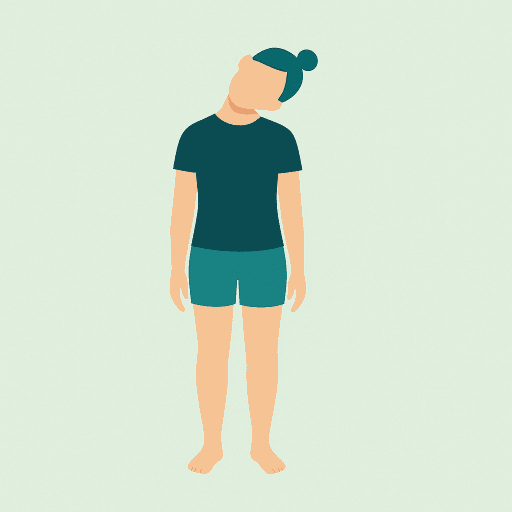
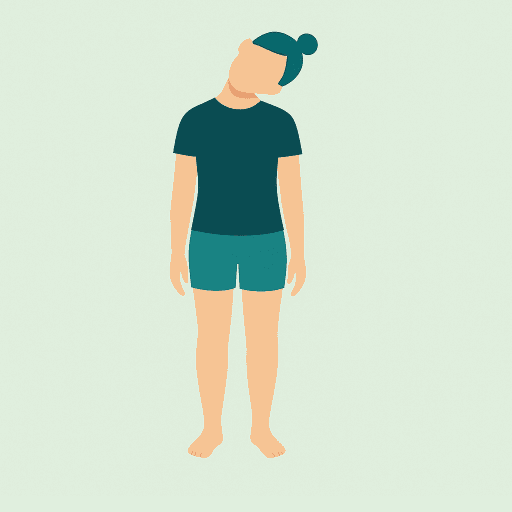
Add rest pause between exercises and normalize illustration framing
- Insert a 5s rest ("Kurze Pause") between consecutive exercise steps
  in the player, so there's time to reposition before the next pose
- Normalize the vertical top margin of all exercise illustrations so
  the grid thumbnails line up consistently
- Bump service worker cache version to v12

diff --git a/assets/app.js b/assets/app.js
@@ -241,12 +241,15 @@
 
   /* ===== Player ===== */
   const RING_CIRC = 2 * Math.PI * 120;
+  const REST_SECS = 5; // Pause zwischen Übungen, zum Neu-Ausrichten
 
   const player = {
     active: false,
     steps: [],       // {ex, side: null|'links'|'rechts', secs}
     index: 0,
     remaining: 0,
+    phaseTotal: 0,   // Sekunden der aktuellen Phase (Übung oder Pause), für den Ring
+    resting: false,
     paused: false,
     timerId: null,
     routineName: '',
@@ -275,6 +278,8 @@
     player.index = 0;
     player.active = true;
     player.paused = false;
+    player.resting = false;
+    $('#view-player').classList.remove('resting');
     player.routineName = routine.name;
     player.single = !!routine.single;
     player.totalSecs = player.steps.reduce((n, s) => n + s.secs, 0);
@@ -289,8 +294,11 @@
 
   function loadStep() {
     clearInterval(player.timerId);
+    player.resting = false;
+    $('#view-player').classList.remove('resting');
     const step = player.steps[player.index];
     player.remaining = step.secs;
+    player.phaseTotal = step.secs;
 
     $('#pose-figure').innerHTML = figureHTML(step.ex, { eager: true });
     $('#pose-figure').classList.toggle('flip', step.side === 'rechts');
@@ -325,7 +333,6 @@
 
   function updateCountdown(reset = false) {
     $('#countdown').textContent = player.remaining;
-    const step = player.steps[player.index];
     const ring = $('#ring-fg');
     if (reset) {
       ring.classList.add('no-anim');
@@ -333,15 +340,45 @@
       void ring.getBoundingClientRect(); // Reflow, damit der Reset ohne Animation greift
       ring.classList.remove('no-anim');
     }
-    ring.style.strokeDashoffset = String(RING_CIRC * (1 - player.remaining / step.secs));
+    ring.style.strokeDashoffset = String(RING_CIRC * (1 - player.remaining / player.phaseTotal));
+  }
+
+  /* Kurze Pause zwischen zwei Übungen, zum Neu-Ausrichten. */
+  function startRest() {
+    clearInterval(player.timerId);
+    player.resting = true;
+    player.remaining = REST_SECS;
+    player.phaseTotal = REST_SECS;
+
+    const next = player.steps[player.index + 1];
+    $('#view-player').classList.add('resting');
+    $('#side-badge').hidden = true;
+    $('#player-title').textContent = 'Kurze Pause';
+    $('#player-hint').textContent = next ? `Mach dich bereit für: ${next.ex.name}` : '';
+    $('#player-announce').textContent = `Kurze Pause, ${REST_SECS} Sekunden`;
+    $('#player-next').textContent = '';
+
+    document.querySelectorAll('#player-progress .seg').forEach((seg, i) => {
+      seg.className = 'seg' + (i <= player.index ? ' done' : '');
+    });
+
+    speak('Kurze Pause');
+    updateCountdown(true);
+    player.timerId = setInterval(tick, 1000);
   }
 
   function tick() {
     if (player.paused) return;
     player.remaining -= 1;
     if (player.remaining <= 0) {
-      chime();
-      nextStep();
+      if (player.resting) {
+        player.index += 1;
+        loadStep();
+      } else {
+        chime();
+        if (player.index + 1 >= player.steps.length) { finish(); return; }
+        startRest();
+      }
       return;
     }
     updateCountdown();
@@ -349,12 +386,14 @@
   }
 
   function nextStep() {
+    if (player.resting) { player.index += 1; loadStep(); return; }
     if (player.index + 1 >= player.steps.length) { finish(); return; }
     player.index += 1;
     loadStep();
   }
 
   function prevStep() {
+    if (player.resting) { loadStep(); return; } // aktuelle (gerade beendete) Übung neu starten
     if (player.index === 0) { loadStep(); return; } // aktuelle Übung neu starten
     player.index -= 1;
     loadStep();

diff --git a/assets/style.css b/assets/style.css
@@ -289,6 +289,7 @@ a.btn { text-decoration: none; display: inline-block; }
 .player-next { text-align: center; margin: 0.9rem 0 0; min-height: 1.3em; }
 
 .paused .pose .figure { animation-play-state: paused; }
+.resting .pose-wrap { opacity: 0.45; }
 
 /* ===== Done ===== */
 .done-screen {

diff --git a/sw.js b/sw.js
@@ -1,5 +1,5 @@
 /* Stretch24 Service Worker – Cache-first, damit die App offline läuft */
-const CACHE = 'stretch24-v11';
+const CACHE = 'stretch24-v12';
 
 /* Kern-Assets: ohne sie startet die App nicht. */
 const CORE_ASSETS = [
